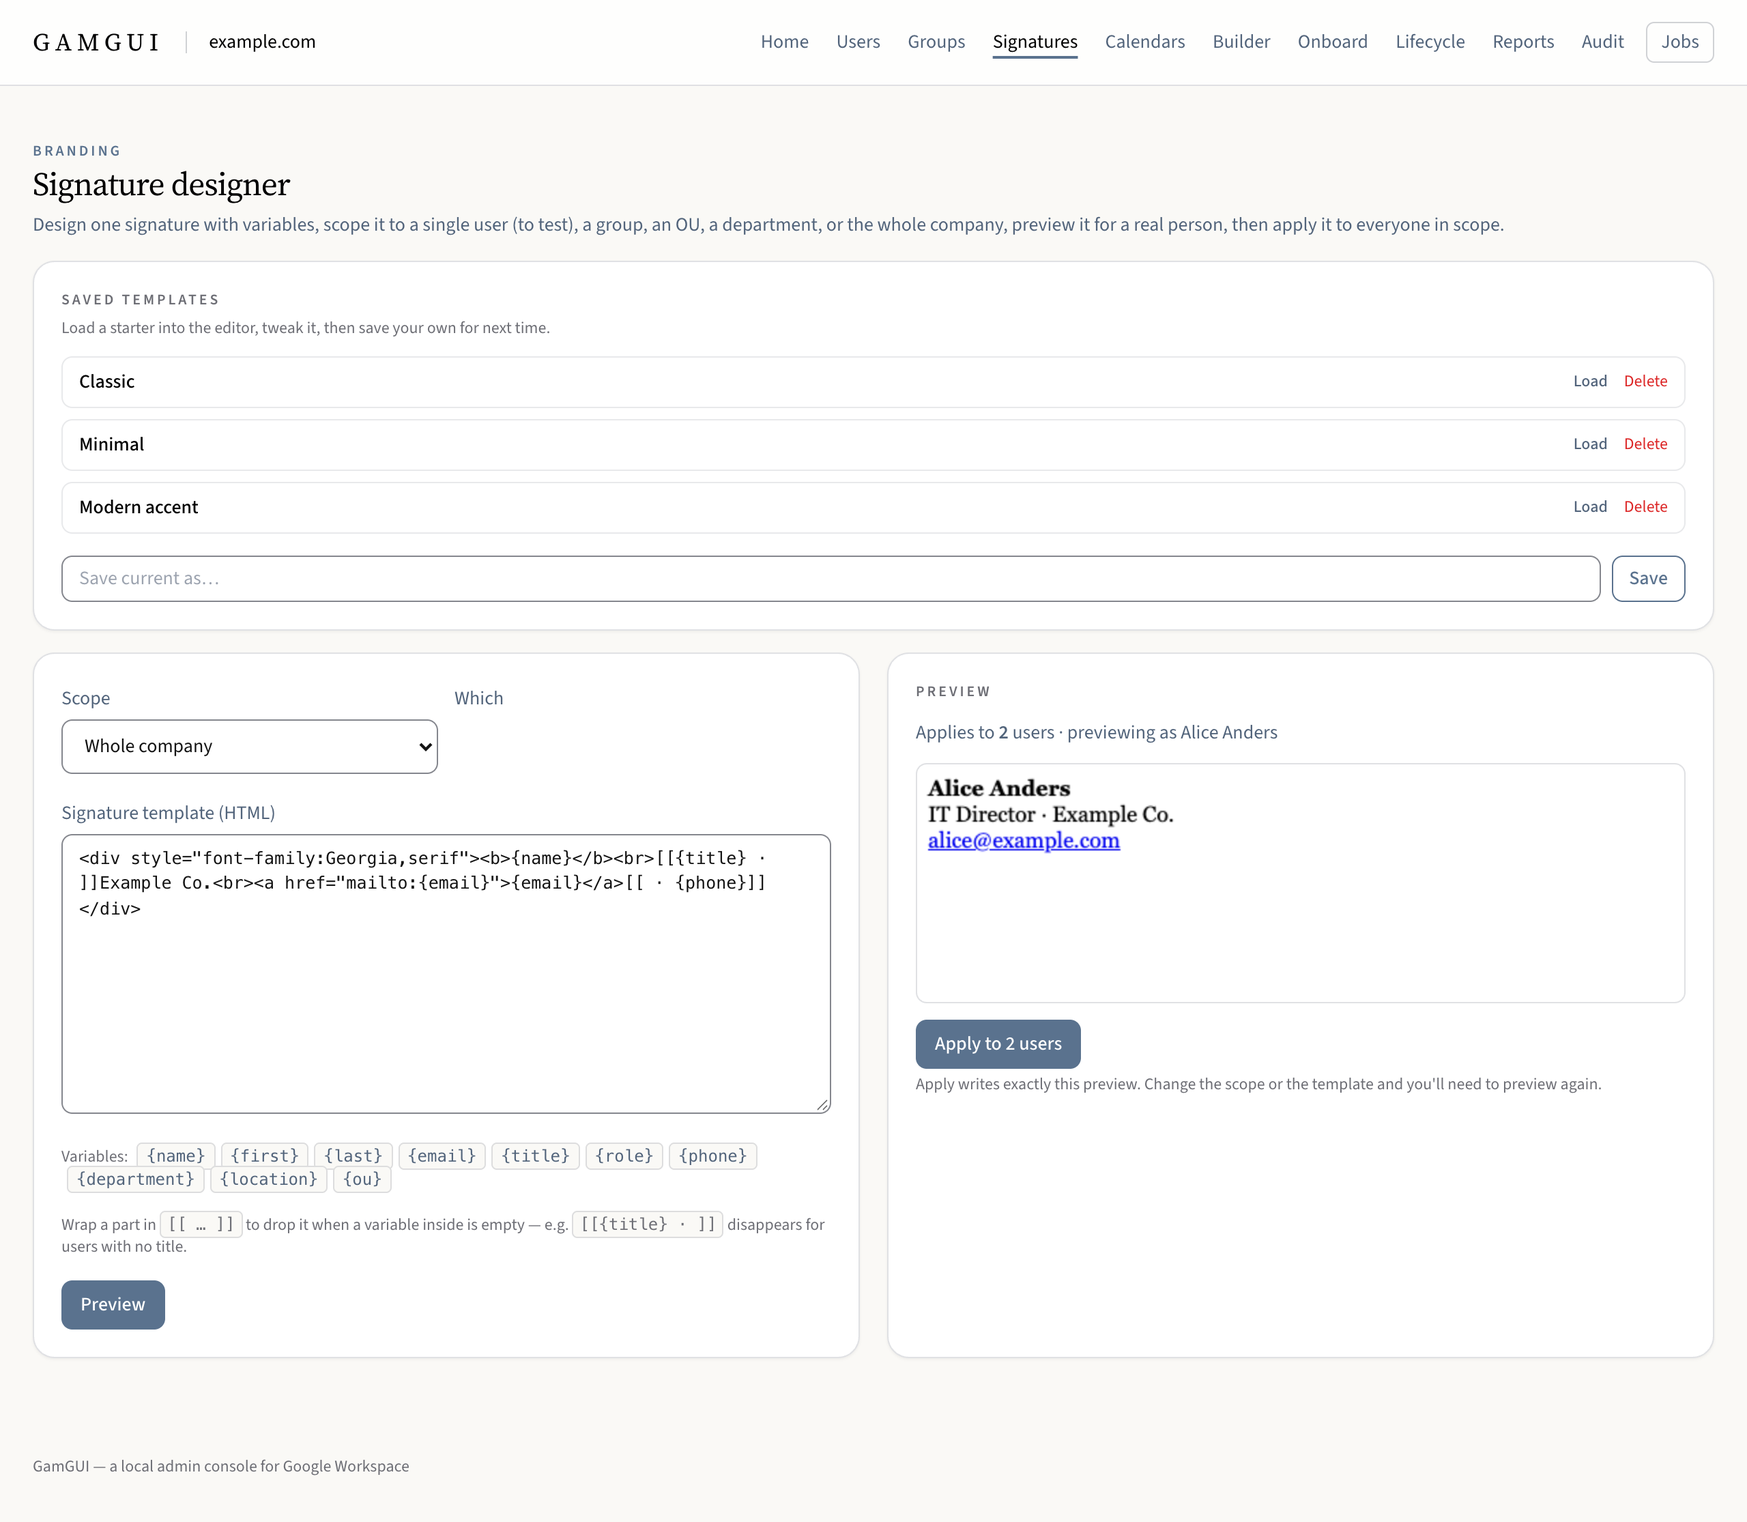
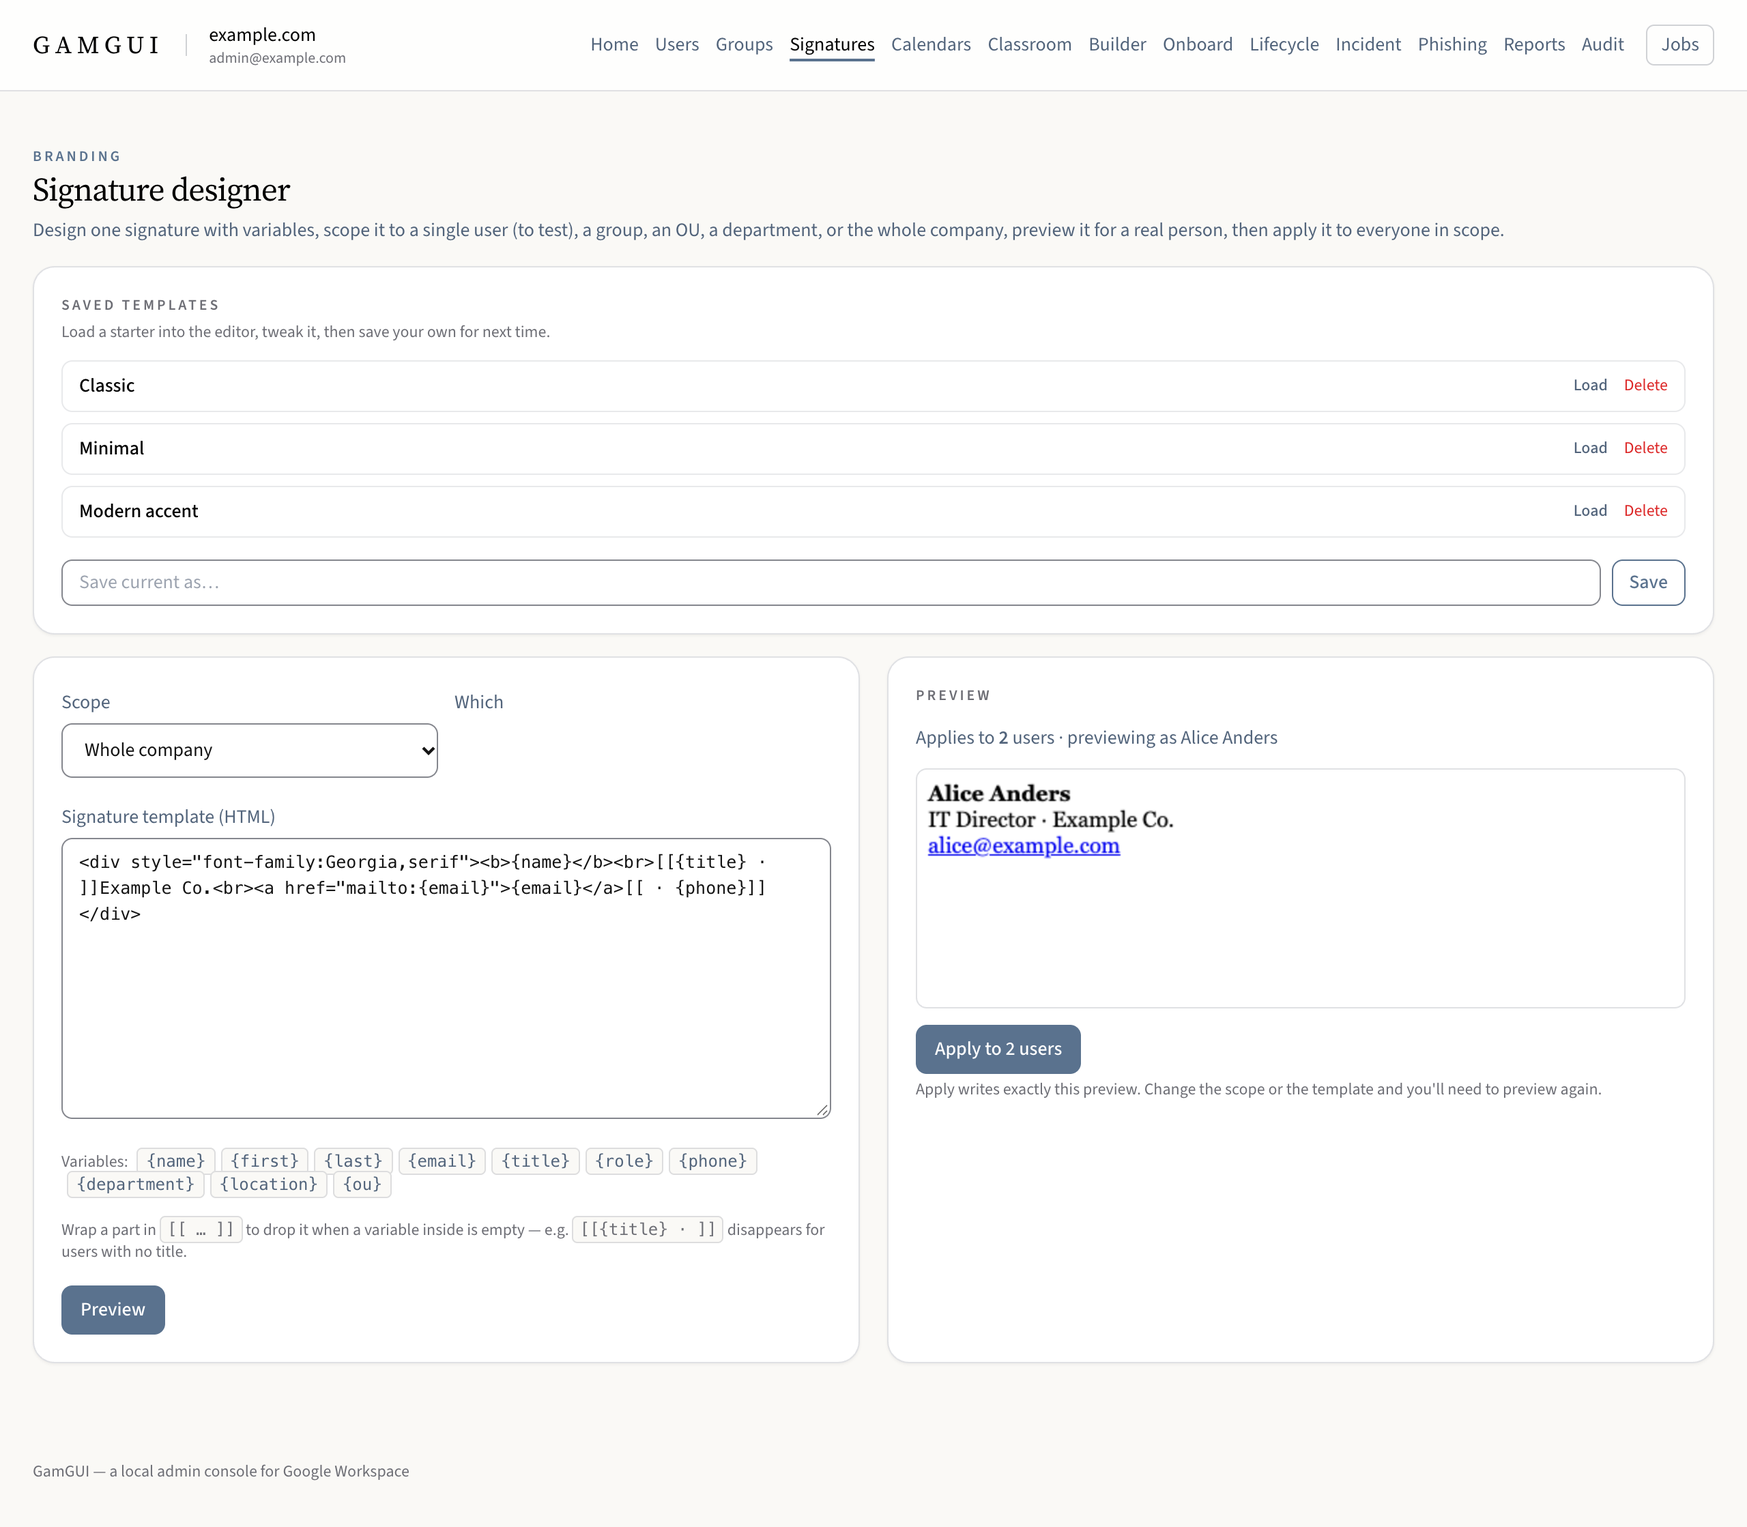
docs: Classroom for testers, one easy I-tried-it form, fresh screenshots (#118)
* docs: refresh the README screenshots and add Classroom

Regenerated from the mock preview; they predated the tenant switcher,
incidents and Classroom. classroom.png is new.

* docs: Classroom in the README, and one easy form to say it worked

The live verification form becomes "I tried it on a real domain": what
you tried, whether it worked, nothing private. Linked from the README,
SUPPORT and CONTRIBUTING, which also says how to try Classroom on the
mock and where the skills and agents are.

* docs: record what the GAM 7.52 bump and the roster merges taught

Two rule-feedback entries (a read verb with a write keyword; the same
CodeQL finding twice), and runbook notes on the code-scanning merge
gate, stacked squash merges and gam version update.

---------

diff --git a/scripts/readme_screenshots.py b/scripts/readme_screenshots.py
@@ -186,6 +186,13 @@ async def shoot():
             await t.click_text("Preview steps")
             await t.wait_for("/Run offboarding/.test(document.body.innerText) && document.querySelectorAll('code, pre').length > 0", 15)
             await t.shot("lifecycle.png")
+
+            await t.goto("/classroom")                                  # the mock's made-up classes, read only
+            await t.wait_for("document.querySelector('#class-results a, #class-results button')", 15)
+            await t.js("(() => { [...document.querySelectorAll('#class-results a, #class-results button')]"
+                       ".find(el => /Biology/.test(el.innerText)).click(); return true; })()")   # it has students
+            await t.wait_for("/STUDENTS · [1-9]/i.test(document.body.innerText)", 15)
+            await t.shot("classroom.png")
     finally:
         proc.terminate()
 

diff --git a/README.md b/README.md
@@ -34,6 +34,10 @@ time.
 - **Share a calendar** so it actually appears, and see who has access to any shared calendar.
 - **Audit**: 2SV gaps, inactive accounts, admins and storage in Reports; in the Builder, any of GAM's
   read commands, filtered down to the rows that reach outside your domains.
+- **Classroom**, for school domains: find a class and who is in it, and plan a roster import from your
+  SIS's export (OneRoster, Clever, or any spreadsheet) as a change list you review and run with GAM
+  yourself. Read only, and **untested on a real school domain**: if you run one,
+  [tell us how it went](https://github.com/goetchstone/gamgui/issues/new?template=live_verification.yml).
 
 **How to get it:** there is **no notarized download yet** — you build it from source on your own Mac.
 It takes a few minutes and Python 3.10+ (macOS ships 3.9: `brew install python@3.13` first); no
@@ -69,6 +73,8 @@ Details in [Build from source](#build-from-source).
 
 ![Offboarding — a guided routine with a rendered auto-reply preview](docs/screenshots/lifecycle.png)
 
+![Classroom — find a class and see its teachers and students, read only](docs/screenshots/classroom.png)
+
 ## Status
 
 In use against live Google Workspace tenants, kept current with GAM, and at feature parity with
@@ -101,6 +107,11 @@ In use against live Google Workspace tenants, kept current with GAM, and at feat
 - **Gmail signatures** — a scoped designer with variables, saved templates, a live preview, and
   bulk apply with a live per-user ✓/✗ feed as each signature gets set.
 - **Groups** — find a group, see its members and their roles, add someone with a role, remove a member after a confirm step.
+- **Classroom** (school domains, read only) — find any class and see its teachers and students, a person's classes
+  (with a warning at offboarding when a leaver owns some), and who may create classes. **Plan an import** reads your
+  SIS's roster export on this Mac (OneRoster 1.1 or 1.2, Clever's CSV files, or one spreadsheet you map by its
+  columns), compares it with Classroom, and hands the change list over as a review sheet and numbered CSVs for
+  `gam csv`. GamGUI itself never changes Classroom. Nothing here has run on a real school domain yet.
 - **Calendars** — find any shared calendar by name. The first time, click **Build index** on the
   Calendars screen: a one-time background scan of every user's calendars (minutes on a large tenant,
   with live progress). After that, name search is instant and served entirely from the local index —
@@ -179,6 +190,11 @@ run were last confirmed separately: setup's scoped `check serviceaccount scopes 
 its granted scopes from `oauth2.txt` (2026-09-25, GAM 7.48.11). The Google Classroom reads (`print courses`, `print
 course-participants`) have **never run live**: their output shapes were read from the vendored GAM build, and the
 maintainer has no Workspace for Education domain to check them on. GamGUI doesn't write to Classroom at all.
+
+**Tried something on a real domain?** Tell us with the two-minute
+[I tried it form](https://github.com/goetchstone/gamgui/issues/new?template=live_verification.yml): what you tried,
+whether it worked, and nothing private. That is how a row below turns **confirmed**, and a Classroom report from a
+school domain is the most useful one of all.
 
 | Write | Where | Live |
 |---|---|---|

diff --git a/CONTRIBUTING.md b/CONTRIBUTING.md
@@ -15,8 +15,8 @@ Looking for something to pick up? [ROADMAP.md](ROADMAP.md) is the ranked backlog
 
 Taking part here is under the [code of conduct](CODE_OF_CONDUCT.md). Questions go to
 [Discussions](https://github.com/goetchstone/gamgui/discussions) — [SUPPORT.md](SUPPORT.md) says what
-goes where — and issues use the forms on **New issue**: a bug, a feature request, or a *live
-verification report* when you've run a write against a real domain. A pull request fills in the
+goes where — and issues use the forms on **New issue**: a bug, a feature request, or *I tried it on a
+real domain* when you've run something against a real domain (two minutes; Classroom reports are the most wanted). A pull request fills in the
 template's checklist, and branch protection requires CI to pass before it merges: `ci-ok` (tests on
 macOS and Linux, lint, accessibility, the GAM compatibility check, the app build), CodeQL, and
 dependency review.
@@ -46,6 +46,21 @@ To look at a screen without a tenant, `.venv/bin/python scripts/preview_mock.py`
 <http://127.0.0.1:8766/?token=t> on the same mock `gam`, an in-memory Keychain and made-up
 `example.com` data (a few users and groups, an onboarding role, a small calendar index); its state
 lives in a temp dir that is deleted when it stops. A write there only proves the mock accepted it.
+
+**Trying Classroom without a school domain.** The same preview has the Classroom screens with made-up classes. On
+**Classroom → Plan an import**, upload the sample Clever export in `tests/fixtures/roster/clever/` (all five CSVs), or
+a small spreadsheet of your own: one row per person in a class, with a class ID, class name, email and role column.
+Never use a real district's export outside your own Mac. If you do run it on a real school domain, the
+[I tried it form](https://github.com/goetchstone/gamgui/issues/new?template=live_verification.yml) is the most useful
+thing you can send: your SIS, its export format, the header row (column names only) and what the screen said.
+
+**Working with Claude Code (or another agent).** The repo carries what the maintainer's own agent sessions use:
+[CLAUDE.md](CLAUDE.md) (the invariants, loaded every session), the area runbooks in [docs/domains/](docs/domains/README.md),
+the skills in [.claude/skills/](.claude/skills) (`start-session`, `pre-commit`, `post-failure`, `live-verify`,
+`add-builder-command`, `end-of-session`, `improve-rules`), and two agents in [.claude/agents/](.claude/agents)
+(`gam-command-author`, `gam-command-reviewer`). [docs/FRAMEWORK.md](docs/FRAMEWORK.md) explains how they fit together.
+The maintainer's local hooks are not published; the rules they enforce are in CLAUDE.md, and the one that matters
+most for you is never to run `gam` from a shell or read the Keychain from an agent.
 
 ## Project layout
 

diff --git a/docs/RULE-FEEDBACK.md b/docs/RULE-FEEDBACK.md
@@ -30,6 +30,30 @@ layer. Moving it (skill → hook → tripwire) is a no-text-change fix.
 
 ---
 
+## 2026-11-12 — A read verb with one write keyword: `gam version update`
+- **What happened:** GAM 7.52.00 added `gam version [... (update [quiet])]`, which downloads the latest release and
+  installs it over the running binary: an unpinned, unattested GAM. `version` is in the parser's `_READ`, so the line is
+  auto-promoted. It was safe only because the read builder drops optional groups. Found by reading the release notes
+  during the bump (#116), not by any check.
+- **Invariant in force:** #3 (only read-only commands auto-promote) and #7 (the pin fails closed).
+- **Why it didn't hold:** it held, by luck of mechanism. #3 classifies a whole grammar line by its verb; #7 guards
+  vendoring, not what the vendored binary can do to itself at runtime.
+- **Would a rule have caught it?** Only if enforced differently: a tripwire that no runnable command emits a keyword
+  that writes. #116 added one for this line (`test_runnable_gam_version_can_never_self_update`); a general one would
+  scan each promoted line's optional groups for write words on a bump.
+- **Enforcement home if changed:** tripwire test (on every bump's catalog).
+
+## 2026-11-12 — The same CodeQL finding twice in two days
+- **What happened:** `py/stack-trace-exposure` blocked #114's merge (exception text in the handover route's answer),
+  a day after 1214420 fixed the same shape on the owned-classes CSV. The PR showed BLOCKED with every check green: the
+  ruleset's code-scanning rule, not a check.
+- **Invariant in force:** none numbered. The fix's rule (answer with fixed words, never `str(exc)`) lived only in that
+  commit's message.
+- **Why it didn't hold:** nothing local checks it; CodeQL only runs on the PR, and its block doesn't say why.
+- **Would a rule have caught it?** Only if enforced differently: a tripwire over `web/routes/` for a `Response` or JSON
+  answer built from a caught exception, or a pre-commit item for route changes.
+- **Enforcement home if changed:** tripwire test (backstop), plus the build-packaging runbook's note on the gate.
+
 ## 2026-10-16 — improve-rules pass: the mock-lies rule named one mock; the fakes that lied were others
 - **What happened:** the observer pass over the window since 2026-10-01: fix commits b6feae3, 383100a,
   6947456 and 5f8193e, the failure-log entries from 2026-10-01 to 2026-10-08, the two open entries

diff --git a/docs/domains/catalog-builder.md b/docs/domains/catalog-builder.md
@@ -40,5 +40,9 @@
 ## To do common tasks here
 - **Add a runnable write** (or a friendlier read): follow `docs/builder-commands.md` §"Adding a buildable command" or run the `add-builder-command` skill — (1) verify syntax in `GamCommands.txt`; (2) add a `@staticmethod` to `core/gam/commands.py`; (3) arg-shape test in `tests/test_commands.py` (the grammar contract in `tests/test_command_contract.py` calls every builder by itself; a validated argument's values go in its `ENUM_ARGS`); (4) append a `_cmd(...)` to `_curated()` in `catalog.py` with the authoritative `RiskLevel`; (5) web test in `tests/test_builder.py`; (6) classify it in `tests/test_mock_gam.py` — a write needs a strict `mock_gam.sh` handler (the mock fails anything unhandled), a read with a new output shape a canned branch.
 - **Change how reads auto-promote:** edit `parse_read_template`/`make_build` in `readbuilder.py`; re-run `test_builder.py` (esp. the injection-safety and boundary tests).
+- **A read verb can carry a write keyword.** `version` is in `_READ`, and since GAM 7.52.00 its line takes
+  `(update [quiet])`, which installs the latest GAM over the running one, unpinned. It stays safe only because the read
+  builder drops optional groups; `test_runnable_gam_version_can_never_self_update` holds the runnable form to plain
+  `gam version`. On a bump, read the grammar diff for any new optional keyword that writes under a read verb.
 - **After a GAM bump:** run `scripts/build_command_catalog.py` to regenerate `command_catalog.json`, then confirm `test_catalog_matches_grammar` and `test_docs_state_the_real_catalog_counts` pass (`bump_gam.py` rewrites the counts in CLAUDE.md, README and ROADMAP; by hand, update all three).
 - **Re-group categories into areas:** edit `_AREA`/`AREA_ORDER` in `catalog.py`; `test_areas_group_the_categories` guards the shape.

diff --git a/docs/domains/build-packaging.md b/docs/domains/build-packaging.md
@@ -56,7 +56,15 @@
   `Analyze (actions)` and `Dependency review`, each pinned to the GitHub Actions app (integration
   15368, so no other app can post a passing status under the name), not strict, and the admin role as
   a `pull_request` bypass: every change, the owner's too, reaches `main` through a PR (a direct push
-  is refused), and merging one past a red or stuck check is an explicit, logged bypass. **`ci-ok`** is `ci.yml`'s last job: `needs` every blocking job, runs
+  is refused), and merging one past a red or stuck check is an explicit, logged bypass. The PR gate also has a
+  **code scanning** rule: an open CodeQL alert at "error" (or a security alert at high or above) on the PR blocks the
+  merge **with every check green**. The PR shows only BLOCKED; read the alert with
+  `gh api "repos/goetchstone/gamgui/code-scanning/alerts?ref=refs/pull/<N>/merge&state=open"` as the owner (SH-Goetch
+  gets a 403). It caught `py/stack-trace-exposure` twice in two days (1214420, #114): answer with fixed words, never an
+  exception's text. **Stacked PRs and squash merges:** each squash leaves the next branch in conflict. When the squash
+  commit's tree equals content the next branch already holds, `git merge -s ours <squash>` records it exactly; then a
+  real `git merge origin/main` brings in only what's new, and `git diff HEAD^1 HEAD` should equal that new work's own
+  diff. **`ci-ok`** is `ci.yml`'s last job: `needs` every blocking job, runs
   `if: always()`, and fails unless every one really passed — a required check passes on
   "skipped", and one that never reports never passes, so requiring the matrix legs by name would wedge
   every PR the day one is renamed. The decision is `scripts/ci_gate.py`: "success" from every `needs`

diff --git a/SUPPORT.md b/SUPPORT.md
@@ -9,7 +9,7 @@ route is usually the one below that fits.
 | Ask a question | [Discussions → Q&A](https://github.com/goetchstone/gamgui/discussions/categories/q-a) |
 | Suggest a chore GamGUI should handle | [Discussions → Ideas](https://github.com/goetchstone/gamgui/discussions/categories/ideas), or a [feature request](https://github.com/goetchstone/gamgui/issues/new/choose) if it's concrete |
 | Report something broken | a [bug report](https://github.com/goetchstone/gamgui/issues/new/choose) |
-| Say a write worked (or didn't) on a real domain | a [live verification report](https://github.com/goetchstone/gamgui/issues/new/choose) — it's how the README's [live status](README.md#live-verification-status) table moves |
+| Say something worked (or didn't) on a real domain, Classroom included | the two-minute [I tried it form](https://github.com/goetchstone/gamgui/issues/new?template=live_verification.yml) — it's how the README's [live status](README.md#live-verification-status) table moves |
 | Report a vulnerability | privately, as [SECURITY.md](SECURITY.md) describes — never in a public issue |
 
 **Is it GamGUI or GAM?** Every write GamGUI makes is one `gam` command, and the Audit screen shows

diff --git a/docs/screenshots/README.md b/docs/screenshots/README.md
@@ -1,6 +1,6 @@
 # Screenshots
 
-The four images the root `README.md` shows. Regenerate them — never capture by hand from a real
+The six images the root `README.md` shows. Regenerate them — never capture by hand from a real
 tenant (hand captures once put the operator's company name and an internal calendar name in this
 public repo):
 
@@ -21,3 +21,4 @@ image before committing — the pre-commit hook's private-term check can't read 
 | `signatures.png` | Signature designer with the live preview | the headline use case for many visitors |
 | `calendars.png` | Calendars — a name-search result + "who has access" | the "find/clean up shared calendars" win |
 | `lifecycle.png` | Offboarding preview: the auto-reply and all eight steps' exact `gam` commands, down to Run offboarding | shows the guided, guarded automation |
+| `classroom.png` | Classroom: the mock's classes and one class's teachers and students | the school-domain screens, read only |

diff --git a/ROADMAP.md b/ROADMAP.md
@@ -56,7 +56,10 @@ order, the decisions each item needs, and a status table to mark as items land.
   they own, and compare a student information system's export (OneRoster first, then others) with
   Classroom into a change list handed over as files GAM can run. The app itself doesn't write to
   Classroom, since those writes can't be checked live here. Adapted from a community fork.
-  [The plan](docs/plans/2026-11-11-classroom-and-rostering.md).
+  [The plan](docs/plans/2026-11-11-classroom-and-rostering.md). **Built in GamGUI** (OneRoster 1.1 and 1.2, Clever,
+  or a mapped spreadsheet; 2026-11-12), SwiftGamGui's port under way. What's owed is a report from someone with a
+  school domain, through the [I tried it form](https://github.com/goetchstone/gamgui/issues/new?template=live_verification.yml).
+  Pulling straight from a SIS's API stays later.
 
 ## Later
 

diff --git a/docs/plans/2026-11-11-classroom-and-rostering.md b/docs/plans/2026-11-11-classroom-and-rostering.md
@@ -1,6 +1,6 @@
 # Plan: Google Classroom and SIS rostering, in both apps — reads and planning only
 
-**Status: IN PROGRESS — Phases C1 to C5.3 built in GamGUI (read only); C5.4 later; the Swift port open.** Written at GamGUI `0a4dd66` for a reader with no session
+**Status: IN PROGRESS — Phases C1 to C5.3 built in GamGUI (read only, merged by #115); C5.4 later; the Swift port under way (briefed 2026-11-13; C1.1 to C1.3 in SwiftGamGui#158).** Written at GamGUI `0a4dd66` for a reader with no session
 context. `CLAUDE.md` is auto-loaded. Before any item, read that app's runbook for the area (`docs/domains/` in each repo).
 When a PR closes an item, mark it under "Status by item" in the same PR.
 
